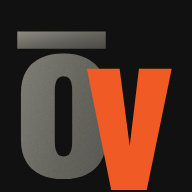
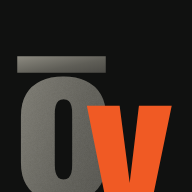
Wordmark: floor crop and step-down (like the Today numerals), rise-through-floor splash, tighter macron
Claude-Session: https://claude.ai/code/session_017ukfJGcrMrwRU6D1aYd7mH

Changed region(s): [[0.0625, 0.1562, 0.9062, 1.0]]

diff --git a/src/components/wordmark.css b/src/components/wordmark.css
@@ -1,12 +1,26 @@
+/*
+ * mōv wordmark — treated like the Today date numerals:
+ * letters stand on a "floor" (the crop edge) and step down left→right,
+ * so the orange "v" sinks below the edge and is cropped, like the "1".
+ * Oswald metrics at line-height 1: baseline ≈ 0.952em from the line top; x-height ≈ 0.6em.
+ */
 .wm {
+  --wm-pad-top: 0.1em;
+  position: relative;
   display: inline-flex;
   align-items: baseline;
+  overflow: hidden;
+  /* Crop edge sits exactly on the baseline: "m" stands on the floor. */
+  height: calc(var(--wm-pad-top) + 0.952em);
+  padding-top: var(--wm-pad-top);
   font-family: var(--font-display);
   font-weight: 700;
   line-height: 1;
   letter-spacing: 0;
-  /* Room above for the macron, below for the lowered "v". */
-  padding: 0.12em 0 0.06em;
+}
+
+.wm-floor {
+  border-bottom: 1px solid var(--divider);
 }
 
 .wm-l {
@@ -25,87 +39,91 @@
   background-clip: text;
 }
 
-/* Tight m–ō: letters nearly touch, like the stacked numerals. */
+/* Step 1: tight to the "m", dipping just below the floor. */
 .wm-o {
   margin-left: -0.05em;
+  transform: translateY(0.07em);
 }
 
-/* Orange "v" overlaps the "ō" and sits slightly low, like the mural's "5". */
+/* Step 2: orange "v" overlaps the "ō" and sinks furthest — cropped like the "1". */
 .wm-v {
   z-index: 1;
   margin-left: -0.17em;
   color: var(--accent);
-  transform: translateY(0.05em);
+  transform: translateY(0.2em);
 }
 
-/* Macron: concrete block, matching its "o". */
+/* Macron: concrete block, tight above the "o" (x-height top ≈ 0.352em). */
 .wm-macron {
   position: absolute;
   left: 0.04em;
   right: 0.04em;
-  top: 0.2em;
+  top: 0.235em;
   height: 0.085em;
   background: linear-gradient(160deg, #8d8b81 0%, #6a6961 100%);
   transform-origin: left center;
 }
 
-/* ---------- Splash animation (modest: rise, overlap, macron wipe) ---------- */
-.wm-animate .wm-l {
-  opacity: 0;
-  animation: wm-rise 420ms var(--ease) forwards;
+/* ---------- Splash animation: letters rise up through the floor, left to right ---------- */
+.wm-animate .wm-m {
+  animation: wm-rise-m 520ms cubic-bezier(0.2, 0.8, 0.2, 1) both;
 }
 
 .wm-animate .wm-o {
-  animation-delay: 110ms;
+  animation: wm-rise-o 520ms cubic-bezier(0.2, 0.8, 0.2, 1) 90ms both;
 }
 
 .wm-animate .wm-v {
-  animation-name: wm-rise-low;
-  animation-delay: 220ms;
+  /* The v overshoots slightly before settling — the one bit of momentum. */
+  animation: wm-rise-v 640ms cubic-bezier(0.25, 1.35, 0.45, 1) 180ms both;
 }
 
 .wm-animate .wm-macron {
-  transform: scaleX(0);
-  animation: wm-wipe 260ms var(--ease) 560ms forwards;
+  animation: wm-wipe 240ms var(--ease) 620ms both;
 }
 
-@keyframes wm-rise {
+@keyframes wm-rise-m {
   from {
-    opacity: 0;
-    transform: translateY(0.18em);
+    transform: translate(-0.12em, 1em);
   }
   to {
-    opacity: 1;
-    transform: translateY(0);
+    transform: translate(0, 0);
   }
 }
 
-@keyframes wm-rise-low {
+@keyframes wm-rise-o {
   from {
-    opacity: 0;
-    transform: translateY(0.24em);
+    transform: translate(-0.12em, 1.07em);
   }
   to {
-    opacity: 1;
-    transform: translateY(0.05em);
+    transform: translate(0, 0.07em);
+  }
+}
+
+@keyframes wm-rise-v {
+  from {
+    transform: translate(-0.12em, 1.2em);
+  }
+  to {
+    transform: translate(0, 0.2em);
   }
 }
 
 @keyframes wm-wipe {
+  from {
+    transform: scaleX(0);
+  }
   to {
     transform: scaleX(1);
   }
 }
 
 @media (prefers-reduced-motion: reduce) {
-  .wm-animate .wm-l,
+  .wm-animate .wm-m,
+  .wm-animate .wm-o,
+  .wm-animate .wm-v,
   .wm-animate .wm-macron {
     animation: none;
-    opacity: 1;
-    transform: none;
-  }
-  .wm-animate .wm-v {
-    transform: translateY(0.05em);
   }
 }
 
@@ -136,7 +154,7 @@
 
 .splash-tag {
   opacity: 0;
-  animation: wm-fade 300ms var(--ease) 700ms forwards;
+  animation: wm-fade 300ms var(--ease) 760ms forwards;
 }
 
 @keyframes wm-fade {

diff --git a/src/components/Wordmark.tsx b/src/components/Wordmark.tsx
@@ -2,13 +2,22 @@ import './wordmark.css';
 
 /**
  * The mōv wordmark, styled like the Today date numerals (after the "25" mural):
- * brushed-concrete "m" and "ō" (macron = the long-vowel mark, drawn as a solid block),
- * and a signal-orange "v" overlapping the "ō".
+ * brushed-concrete "m" and "ō" (macron drawn as a solid block) and a signal-orange "v".
+ * Letters stand on a floor line and step down left→right; the "v" sinks below it and is
+ * cropped, like the Today "1". On the splash they rise up through the floor.
  * The macron is drawn, not typed: Oswald's latin subset has no "ō", and a block bar reads better.
  */
-export function Wordmark({ animate = false, className = '' }: { animate?: boolean; className?: string }) {
+export function Wordmark({
+  animate = false,
+  floor = true,
+  className = '',
+}: {
+  animate?: boolean;
+  floor?: boolean;
+  className?: string;
+}) {
   return (
-    <span className={`wm ${animate ? 'wm-animate' : ''} ${className}`} role="img" aria-label="mōv">
+    <span className={`wm ${floor ? 'wm-floor' : ''} ${animate ? 'wm-animate' : ''} ${className}`} role="img" aria-label="mōv">
       <span className="wm-l wm-m" aria-hidden>
         m
       </span>

diff --git a/docs/style-guide.md b/docs/style-guide.md
@@ -181,10 +181,11 @@ Series are also told apart by line style or markers and direct labels, not color
 ### B7a. Wordmark — mōv
 
 * Spelled **mōv** (lowercase; the macron marks the long "o", pronounced "move").
-* Oswald 700, treated like the Today date numerals: **"m" and "ō" in brushed concrete** (gradient + grain), **"v" in Signal Orange**, overlapping the "ō" and set slightly low — the mural's "2"/"5" relationship.
-* The macron is a **drawn block bar** in concrete (not a typed glyph), sitting just above the x-height.
-* Component: `src/components/Wordmark.tsx`. App icon: concrete "ō" overlapped by an orange "v", cropped at the bottom edge.
-* **Splash:** letters rise in sequence (m → ō → v, ~110ms stagger), the macron wipes in left-to-right, tagline fades in, then the splash fades out at ~1.35s. Tap to skip; Reduce Motion shows it static. iOS launch images are plain Machine Black so there is no white flash.
+* Oswald 700, treated like the Today date numerals: **"m" and "ō" in brushed concrete**, **"v" in Signal Orange**.
+* **Floor and crop:** the letters stand on a floor line (the crop edge) and step down left→right. The "m" sits on the floor, the "ō" dips just below it, and the orange "v" overlaps the "ō" and sinks furthest, so it's cropped like the Today "1". The step-down carries the sense of forward motion.
+* **Spacing:** m–ō tight (nearly touching); the macron is a drawn concrete block sitting tight above the "o".
+* Component: `src/components/Wordmark.tsx` (`floor` prop draws the hairline). App icon: concrete "ō" and orange "v", both cropped by the bottom edge, with the "v" lower.
+* **Splash:** letters rise up through the floor in sequence (m → ō → v, ~90ms stagger, sliding slightly forward). The "v" overshoots a touch before settling, the macron wipes in, the tagline fades in, then the splash fades out at ~1.35s. Tap to skip; Reduce Motion shows it static. iOS launch images are plain Machine Black.
 
 ### B8. Components (v1)
 
